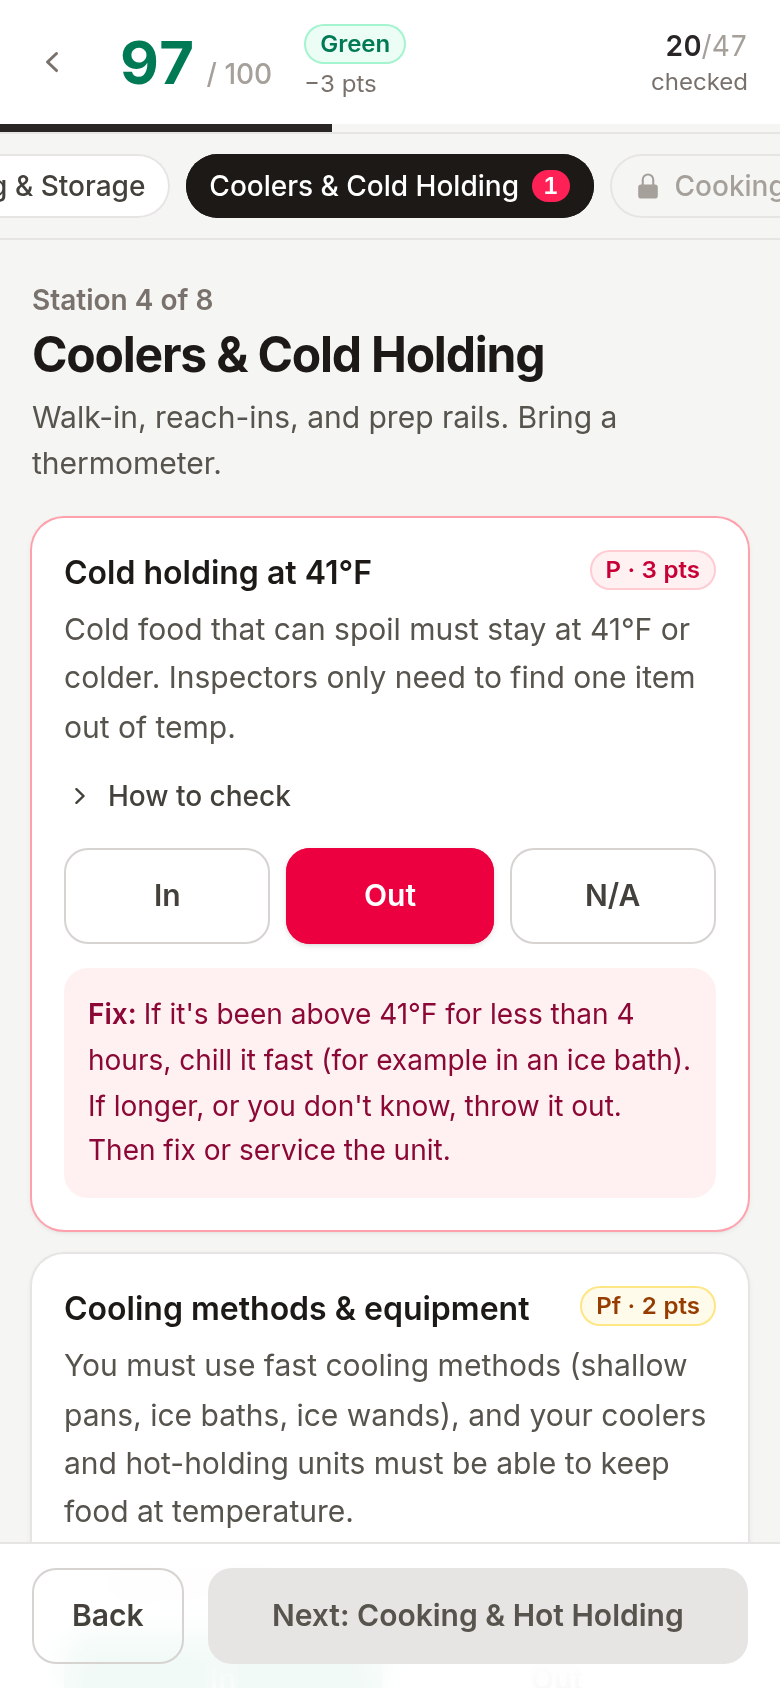
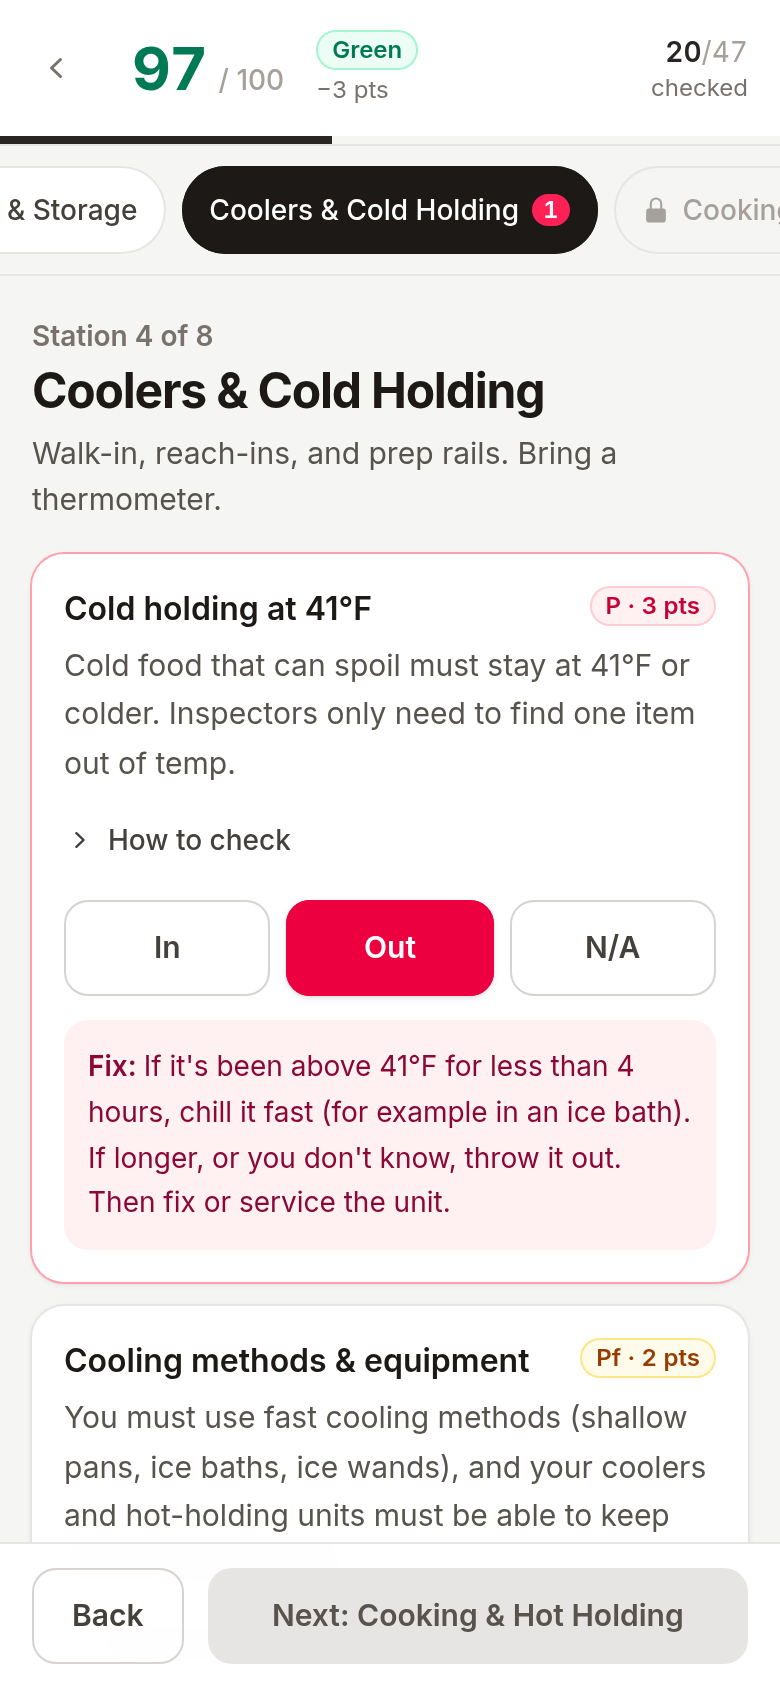
Fix audit findings and deploy to GitHub Pages
Rubric: correct food handler deadline (30 days), CFM presence, TCS date
marking, vacuum-pack/HACCP scope, utensil water temp, hand-sink signage,
glove changes, medicine storage; trim unsourced penalty claims from the
fail note.

App: validate saved state on load, clamp station navigation, only allow
results when all 47 are answered, clear the sample flag on edit, guard
localStorage writes, count tallies from rubric items, aria-disabled on the
gated Next button, 44px tap targets, clipboard favicon.

Deploy: relative Vite base and a GitHub Actions Pages workflow.

diff --git a/src/lib/store.ts b/src/lib/store.ts
@@ -1,5 +1,5 @@
 import { useEffect, useReducer } from 'react'
-import type { Answer, Answers } from './rubric'
+import { cleanAnswers, reachableArea, rubric, type Answer, type Answers } from './rubric'
 
 export type Screen = 'start' | 'inspect' | 'verdict'
 
@@ -7,7 +7,7 @@ export interface State {
   screen: Screen
   areaIndex: number
   answers: Answers
-  /** True while the answers came from the demo sample (cleared by reset). */
+  /** True while the answers are the untouched demo sample (cleared by reset or any edit). */
   sample: boolean
 }
 
@@ -15,7 +15,6 @@ export type Action =
   | { type: 'start' }
   | { type: 'reset' }
   | { type: 'answer'; id: number; answer: Answer }
-  | { type: 'answerMany'; ids: number[]; answer: Answer }
   | { type: 'goArea'; index: number }
   | { type: 'finish' }
   | { type: 'home' }
@@ -35,16 +34,17 @@ function reducer(state: State, action: Action): State {
       // Tapping the selected answer again clears it.
       if (answers[action.id] === action.answer) delete answers[action.id]
       else answers[action.id] = action.answer
-      return { ...state, answers }
-    }
-    case 'answerMany': {
-      const answers = { ...state.answers }
-      for (const id of action.ids) answers[id] = action.answer
-      return { ...state, answers }
+      // Once edited, the answers are the user's own, not the sample's.
+      return { ...state, answers, sample: false }
     }
     case 'goArea':
-      return { ...state, screen: 'inspect', areaIndex: action.index }
+      // Never past the first station with unanswered items.
+      return { ...state, screen: 'inspect', areaIndex: clampArea(action.index, state.answers) }
     case 'finish':
+      // Results only once every item is answered; otherwise send them to the first gap.
+      if (Object.keys(state.answers).length < rubric.items.length) {
+        return { ...state, screen: 'inspect', areaIndex: reachableArea(state.answers) }
+      }
       return { ...state, screen: 'verdict' }
     case 'home':
       return { ...state, screen: 'start' }
@@ -53,13 +53,21 @@ function reducer(state: State, action: Action): State {
   }
 }
 
+function clampArea(index: number, answers: Answers): number {
+  const i = Number.isInteger(index) ? index : 0
+  return Math.max(0, Math.min(i, reachableArea(answers)))
+}
+
 function load(): State {
   try {
     const raw = localStorage.getItem(STORAGE_KEY)
     if (!raw) return initial
-    const saved = JSON.parse(raw) as Partial<State>
+    // Saved data may be stale (older rubric) or edited by hand: keep only what's valid.
+    const saved = JSON.parse(raw) as Record<string, unknown> | null
+    const answers = cleanAnswers(saved?.answers)
+    const areaIndex = clampArea(typeof saved?.areaIndex === 'number' ? saved.areaIndex : 0, answers)
     // Always land on the start screen; it offers "Resume" when there's saved progress.
-    return { ...initial, areaIndex: saved.areaIndex ?? 0, answers: saved.answers ?? {}, sample: saved.sample ?? false }
+    return { ...initial, areaIndex, answers, sample: saved?.sample === true }
   } catch {
     return initial
   }
@@ -68,10 +76,14 @@ function load(): State {
 export function useInspection() {
   const [state, dispatch] = useReducer(reducer, undefined, load)
   useEffect(() => {
-    localStorage.setItem(
-      STORAGE_KEY,
-      JSON.stringify({ areaIndex: state.areaIndex, answers: state.answers, sample: state.sample }),
-    )
+    try {
+      localStorage.setItem(
+        STORAGE_KEY,
+        JSON.stringify({ areaIndex: state.areaIndex, answers: state.answers, sample: state.sample }),
+      )
+    } catch {
+      // Storage full or blocked (e.g. private browsing): the app still works, it just won't remember.
+    }
   }, [state.areaIndex, state.answers, state.sample])
   return [state, dispatch] as const
 }

diff --git a/src/screens/InspectScreen.tsx b/src/screens/InspectScreen.tsx
@@ -1,7 +1,7 @@
 import { useEffect, useRef } from 'react'
 import { ItemCard } from '../components/ItemCard'
 import { ScoreBar } from '../components/ScoreBar'
-import { itemsByArea, type Answer, type Answers } from '../lib/rubric'
+import { itemsByArea, reachableArea, type Answer, type Answers } from '../lib/rubric'
 import type { ScoreSummary } from '../lib/scoring'
 import type { Action } from '../lib/store'
 
@@ -17,9 +17,7 @@ export function InspectScreen({ areaIndex, answers, summary, dispatch }: Props) 
   const isLast = areaIndex === itemsByArea.length - 1
   const unanswered = items.filter((i) => answers[i.id] === undefined)
   const blocked = unanswered.length > 0
-  // Furthest station you may open: every station before it must be fully answered.
-  const firstIncomplete = itemsByArea.findIndex(({ items }) => items.some((i) => answers[i.id] === undefined))
-  const reachable = firstIncomplete === -1 ? itemsByArea.length - 1 : firstIncomplete
+  const reachable = reachableArea(answers)
 
   // Start each station at the top.
   useEffect(() => {
@@ -52,7 +50,7 @@ export function InspectScreen({ areaIndex, answers, summary, dispatch }: Props) 
         </div>
 
         {unanswered.length > 0 ? (
-          <div className="mt-4 flex items-center justify-between gap-3 rounded-xl bg-white px-4 py-3 ring-1 ring-stone-200">
+          <div id="unanswered-note" className="mt-4 flex items-center justify-between gap-3 rounded-xl bg-white px-4 py-3 ring-1 ring-stone-200">
             <p className="text-sm text-stone-600">
               <span className="tabular font-semibold text-stone-900">{unanswered.length}</span>{' '}
               {unanswered.length === 1 ? 'item' : 'items'} at this station {unanswered.length === 1 ? 'is' : 'are'} still
@@ -60,7 +58,7 @@ export function InspectScreen({ areaIndex, answers, summary, dispatch }: Props) 
             </p>
             <button
               onClick={() => showItem(unanswered[0].id)}
-              className="shrink-0 rounded-lg px-3 py-2 text-sm font-semibold text-stone-800 ring-1 ring-inset ring-stone-300 transition hover:bg-stone-50"
+              className="min-h-11 shrink-0 rounded-lg px-3 py-2 text-sm font-semibold text-stone-800 ring-1 ring-inset ring-stone-300 transition hover:bg-stone-50"
             >
               Show me
             </button>
@@ -94,6 +92,8 @@ export function InspectScreen({ areaIndex, answers, summary, dispatch }: Props) 
               else if (isLast) dispatch({ type: 'finish' })
               else dispatch({ type: 'goArea', index: areaIndex + 1 })
             }}
+            aria-disabled={blocked}
+            aria-describedby={blocked ? 'unanswered-note' : undefined}
             className={`h-12 flex-1 rounded-xl text-[15px] font-semibold transition active:scale-[0.99] ${
               blocked ? 'bg-stone-200 text-stone-600' : 'bg-stone-900 text-white shadow-sm hover:bg-stone-800'
             }`}
@@ -149,8 +149,9 @@ function AreaStepper({
               onClick={() => onPick(i)}
               disabled={locked}
               title={locked ? 'Answer every item in the earlier stations first' : undefined}
+              aria-label={locked ? `${area.name} (locked until earlier stations are answered)` : undefined}
               aria-current={active ? 'step' : undefined}
-              className={`flex shrink-0 items-center gap-1.5 rounded-full px-3 py-1.5 text-sm font-medium whitespace-nowrap ring-1 ring-inset transition ${
+              className={`flex min-h-11 shrink-0 items-center gap-1.5 rounded-full px-3.5 py-2 text-sm font-medium whitespace-nowrap ring-1 ring-inset transition ${
                 active
                   ? 'bg-stone-900 text-white ring-stone-900'
                   : locked

diff --git a/src/lib/rubric.test.ts b/src/lib/rubric.test.ts
@@ -1,0 +1,30 @@
+import { describe, expect, it } from 'vitest'
+import { SAMPLE_ANSWERS } from '../data/sample'
+import { cleanAnswers, itemsByArea, reachableArea } from './rubric'
+
+describe('cleanAnswers', () => {
+  it('drops unknown ids, invalid values, and N/A where it is not allowed', () => {
+    // Item 7 doesn't allow N/A; item 1 does.
+    expect(cleanAnswers({ 1: 'na', 2: 'out', 7: 'na', 99: 'in', 3: 'maybe' })).toEqual({ 1: 'na', 2: 'out' })
+  })
+
+  it('returns nothing for junk', () => {
+    for (const junk of [null, undefined, 'x', 5, ['in']]) expect(cleanAnswers(junk)).toEqual({})
+  })
+
+  it('keeps a full valid set intact', () => {
+    expect(cleanAnswers(SAMPLE_ANSWERS)).toEqual(SAMPLE_ANSWERS)
+  })
+})
+
+describe('reachableArea', () => {
+  it('is the first station with an unanswered item', () => {
+    expect(reachableArea({})).toBe(0)
+    const firstStation = Object.fromEntries(itemsByArea[0].items.map((i) => [i.id, 'in' as const]))
+    expect(reachableArea(firstStation)).toBe(1)
+  })
+
+  it('is the last station once everything is answered', () => {
+    expect(reachableArea(SAMPLE_ANSWERS)).toBe(itemsByArea.length - 1)
+  })
+})

diff --git a/src/lib/rubric.ts b/src/lib/rubric.ts
@@ -56,3 +56,21 @@ export const itemsByArea: { area: Area; items: Item[] }[] = rubric.areas.map((ar
   area,
   items: rubric.items.filter((i) => i.area === area.id).sort((a, b) => a.id - b.id),
 }))
+
+/** Furthest station the user may open: every station before it must be fully answered. */
+export function reachableArea(answers: Answers): number {
+  const first = itemsByArea.findIndex(({ items }) => items.some((i) => answers[i.id] === undefined))
+  return first === -1 ? itemsByArea.length - 1 : first
+}
+
+/** Keep only answers for real items with a valid value (N/A only where the item allows it). */
+export function cleanAnswers(raw: unknown): Answers {
+  const out: Answers = {}
+  if (!raw || typeof raw !== 'object' || Array.isArray(raw)) return out
+  const src = raw as Record<string, unknown>
+  for (const item of rubric.items) {
+    const a = src[item.id]
+    if (a === 'in' || a === 'out' || (a === 'na' && item.allows_na)) out[item.id] = a
+  }
+  return out
+}

diff --git a/src/components/ItemCard.tsx b/src/components/ItemCard.tsx
@@ -42,7 +42,7 @@ export function ItemCard({ item, answer, onAnswer }: Props) {
 
       <button
         onClick={() => setOpen((o) => !o)}
-        className="mt-3 flex items-center gap-1.5 text-sm font-medium text-stone-700 hover:text-stone-900"
+        className="-mx-2 mt-1 flex min-h-11 items-center gap-1.5 rounded-lg px-2 text-sm font-medium text-stone-700 hover:text-stone-900"
         aria-expanded={open}
       >
         <svg
@@ -75,7 +75,7 @@ export function ItemCard({ item, answer, onAnswer }: Props) {
         </div>
       )}
 
-      <div className={`mt-4 grid gap-2 ${options.length === 3 ? 'grid-cols-3' : 'grid-cols-2'}`} role="radiogroup" aria-label={item.title}>
+      <div className={`mt-2 grid gap-2 ${options.length === 3 ? 'grid-cols-3' : 'grid-cols-2'}`} role="radiogroup" aria-label={item.title}>
         {options.map((o) => {
           const selected = answer === o.value
           return (

diff --git a/src/components/ScoreBar.tsx b/src/components/ScoreBar.tsx
@@ -18,7 +18,7 @@ export function ScoreBar({ summary, onHome }: Props) {
       <div className="mx-auto flex max-w-2xl items-center gap-4 px-4 py-3">
         <button
           onClick={onHome}
-          className="-ml-2 rounded-lg p-2 text-stone-500 hover:bg-stone-100 hover:text-stone-800"
+          className="-ml-2.5 grid size-11 place-items-center rounded-lg text-stone-500 hover:bg-stone-100 hover:text-stone-800"
           aria-label="Back to start"
         >
           <svg viewBox="0 0 20 20" fill="currentColor" className="size-5" aria-hidden>

diff --git a/src/screens/VerdictScreen.tsx b/src/screens/VerdictScreen.tsx
@@ -21,7 +21,10 @@ export function VerdictScreen({ summary, answers, sample, onBack, onRestart }: P
   const shown = useCountDown(score)
 
   const counts = { in: 0, out: 0, na: 0 }
-  for (const a of Object.values(answers)) counts[a]++
+  for (const item of rubric.items) {
+    const a = answers[item.id]
+    if (a) counts[a]++
+  }
 
   const groups = SEVERITIES.map((sev) => {
     const items = failed.filter((i) => i.severity === sev)

diff --git a/vite.config.ts b/vite.config.ts
@@ -4,5 +4,7 @@ import { defineConfig } from 'vite'
 
 // https://vite.dev/config/
 export default defineConfig({
+  // Relative asset paths, so the build works at any URL (e.g. GitHub Pages' /austin-inspection-practice-test/).
+  base: './',
   plugins: [react(), tailwindcss()],
 })

diff --git a/PROGRESS.md b/PROGRESS.md
@@ -3,7 +3,7 @@
 _Last updated: 2026-11-26_
 
 ## Status
-Phases 0–3 done: rubric, start screen, gated station-by-station inspection, and the verdict screen with a ranked fix list and print/PDF. Sample-result button and README done. Next: deploy (waiting on the user to talk it through).
+Phases 0–3 done, audited, and deployed to GitHub Pages: https://mwanin.github.io/austin-inspection-practice-test/. Only optional work remains (Phase 4 AI layer, confirming the form edition).
 
 ## Checklist
 - [x] Read the build plan
@@ -18,7 +18,8 @@ Phases 0–3 done: rubric, start screen, gated station-by-station inspection, an
 - [x] Demo touch: "Just looking? See a sample result" button (85, Yellow, 2 Priority items Out). Tested in `src/data/sample.test.ts`
 - [x] README with screenshots (`docs/*.png`)
 - [x] GitHub repo (public): https://github.com/MwaniN/austin-inspection-practice-test
-- [ ] Deploy (Vercel or GitHub Pages) and add the link here
+- [x] Audit (3 Sonnet agents: rubric vs. sources, code, live UI + docs) and fixes applied, see Decisions log
+- [x] Deploy to GitHub Pages: https://mwanin.github.io/austin-inspection-practice-test/ (auto-deploys on push to `main` via `.github/workflows/deploy.yml`)
 - [ ] *(Optional)* Phase 4: AI layer
 
 ## Decisions log
@@ -33,6 +34,7 @@ Phases 0–3 done: rubric, start screen, gated station-by-station inspection, an
 - **Fail line: 70 passes, 69 or below fails and triggers a re-inspection.** Confirmed by local news coverage
   (Daily Texan: "70 or above considered a passing score"; WhatNow: "reinspection required due to the health score being below 70").
   Supporting context: repeat failures within 3 years lead to a criminal complaint, and a third failure means closure (KUT, Aug 2026, citing APH).
+  The app's `fail_note` deliberately leaves the penalty claims out (news-sourced, not in the official documents); it only says 69 or below fails and gets a re-inspection.
 - **Stack: Vite + React + Tailwind on Node 22,** static, no backend. The rubric validator is written in Node too, so there is a single toolchain.
 - **Rubric gets a `check` field** (how to self-check this item right now), on top of the plan's schema. Approved by the user.
 
@@ -46,17 +48,17 @@ Phases 0–3 done: rubric, start screen, gated station-by-station inspection, an
   so the higher-point items come first.
 - **App structure (Phase 2):** `src/lib/scoring.ts` (pure `summarize()`, unit-tested in `scoring.test.ts`), `src/lib/store.ts`
   (`useReducer` + localStorage key `aipt:v1`; screens `start | inspect | verdict`; tapping the selected answer again clears it),
-  `src/lib/ui.ts` (band/severity colors), `components/` (ScoreBar, ItemCard, Disclaimer), `screens/` (StartScreen, InspectScreen).
+  `src/lib/ui.ts` (band/severity colors), `components/` (ScoreBar, ItemCard, Disclaimer), `screens/` (StartScreen, InspectScreen, VerdictScreen).
   The app always opens on the start screen; it shows "Resume" when there's saved progress.
 - **UI choices:** one station per screen with a scrollable chip stepper (✓ when complete, red count of items needing a fix); a Fix
-  box appears as soon as an item is marked "Needs fix"; the form item # and code ref sit inside "How to check" so the main card
+  box appears as soon as an item is marked Out; the form item # and code ref sit inside "How to check" so the main card
   stays plain-language.
 - **Answer labels stay "In / Out / N/A"** (the official inspector marks). The start screen has a short "What In, Out and N/A
   mean" box explaining them. User's call, after briefly trying "Looks good / Needs fix".
 - **Unanswered prompt, never a suggested answer:** each station ends with "N items at this station are still unanswered" plus a
   "Show me" button that scrolls to the first unanswered card and briefly outlines it (or "All N items answered" when done).
-  The old "Mark the remaining N as In" button was removed because it told people *what* to answer. Fast demos will use the
-  "fill sample data" button instead.
+  The old "Mark the remaining N as In" button was removed because it told people *what* to answer. Fast demos use the
+  "Just looking? See a sample result" link instead.
 - **Stations are gated:** you can't move forward until every item at the current station is answered. The Next / "See my
   results" button keeps its label but turns grey; tapping it jumps to the first unanswered card. Station
   chips past the first incomplete station are disabled with a lock icon. Going back is always allowed. User's call.
@@ -70,11 +72,25 @@ Phases 0–3 done: rubric, start screen, gated station-by-station inspection, an
 - **Sample result:** `src/data/sample.ts` (8 Out: items 2, 14, 28, 29, 31, 36, 39, 45; N/A: 6, 16, 25 → 85, Yellow, passes).
   The `loadSample` action fills all 47 answers and goes straight to the verdict, with `sample: true` saved alongside the answers.
   While it's set, the verdict shows a blue "Sample results for a made-up kitchen" banner with "Start my own", the score label
-  reads "Sample score", and the printed header says "Sample report". Reset clears it.
+  reads "Sample score", and the printed header says "Sample report". Reset clears it, and so does editing any answer
+  (the answers are then the user's own).
 - **README** is written for someone opening the repo from the job application. It only states what's sourced: it leaves out
   the plan's unverified "Green/Yellow/Red twice a year" claim. Screenshots in `docs/` were taken with reduced motion,
   at 390×844 @2x.
 - **Logo is a clipboard, not a checkmark:** a check in a square read as a clickable checkbox.
+- **Audit fixes (2026-11-26):**
+  - Rubric text corrected against the sources: food handler card within 30 days (not 60); CFM on site whenever open;
+    date marking applies to ready-to-eat *TCS* food; vacuum packing only needs a plan past the 48-hour rule; in-use utensils
+    may sit in water ≥135°F; hand sinks need a sign; gloves/handwash on task change; medicines stored away from food;
+    item 23 code_ref gains 5-202.12 (the 100°F hand-sink rule).
+  - Saved state is validated on load (`cleanAnswers` and `reachableArea` in `src/lib/rubric.ts`, tested in `rubric.test.ts`):
+    unknown ids, bad values and disallowed N/A are dropped; `areaIndex` is clamped to the first incomplete station.
+    The reducer also clamps `goArea` and only allows `finish` when all 47 are answered. Saving is wrapped in try/catch.
+  - Verdict tallies count rubric items only. The gated Next button has `aria-disabled`. Primary tap targets are now 44px or more
+    (chips, back arrow, "How to check", "Show me"). The favicon is the clipboard logo. The unused `answerMany` action was removed.
+  - Left as is (judged fine): the item 1 cooling fix wording, the item 8 receiving temps simplification, and the item 30 permit text.
+- **Deploy: GitHub Pages** via Actions (tests + rubric check + build, then deploy). `vite.config.ts` uses `base: './'`
+  (relative asset paths), so the same build works at the Pages sub-path, at a root domain, or on Vercel. There's no router, so no SPA fallback is needed.
 - **Screenshots/visual checks:** the Playwright MCP needs an X server and fails in WSL. Instead use `playwright-core` driving
   headless system Chrome (`/opt/google/chrome/chrome`) from a scratch script at a 390×844 mobile viewport.
 
@@ -91,7 +107,7 @@ Phases 0–3 done: rubric, start screen, gated station-by-station inspection, an
   Failing that, email ehsd.service@austintexas.gov. Until then the 47-item form is a safe basis.
 
 ## Next up
-1. **Deploy: talk it through with the user first** (they asked to discuss before deploying). Options: Vercel (zero config)
-   or GitHub Pages (needs `base: '/austin-inspection-practice-test/'` in `vite.config.ts` plus a Pages workflow). Then add
-   the live link to the README (top, under the title) and to the checklist here.
-2. Optional: Phase 4 AI layer; confirm Austin's current form edition (Open question A).
+1. Optional: Phase 4 AI layer (see the plan in `resources/`).
+2. Confirm Austin's current form edition (Open question A). If it's the 56-item form, scoring needs a rethink.
+3. Optional polish from the audit, not yet done: a tick mark at 70 on the verdict gauge; unify the two "Start over" confirm
+   messages; real radio keyboard handling (or `aria-pressed` toggles) for the In/Out/N/A buttons.

diff --git a/README.md b/README.md
@@ -1,5 +1,7 @@
 # Austin Inspection Practice Test
 
+**Live demo:** https://mwanin.github.io/austin-inspection-practice-test/ (best on a phone)
+
 **Would you pass your health inspection today?** A mobile-first self-inspection tool for Austin restaurants.
 Walk the kitchen with the same 47-item, 100-point form inspectors use, watch the score update as you go, and get a
 fix list ranked by what costs you the most points, all before the real inspector arrives.
@@ -25,7 +27,7 @@ hundreds of pages that nobody on the line has read. This turns it into a 15-minu
   Priority Foundation 2, Core 1.
 - **Fix as you go.** Marking an item Out immediately shows what to do about it.
 - **Verdict and fix list.** Pass or fail against Austin's 70-point line, plus every problem ranked by points and grouped
-  by the official correction deadline (3 days / 10 days / 90 days). Each item cites its form number and Food Code section.
+  by the official correction deadline (3 days / 10 days / 90 days or the next inspection). Each item cites its form number and Food Code section.
 - **Print or save as PDF** for the kitchen wall or the next staff meeting.
 - **One-tap sample result** ("Just looking?") so anyone can see the full output in seconds.
 - Works one-handed on a phone. Progress is saved in the browser. No account, no backend, no data leaves the device.
@@ -56,6 +58,7 @@ saved to `localStorage`.
 src/
   data/rubric.json        47 items: official text, points, code ref, plain language, how to check, fix
   data/sample.ts          the demo kitchen behind "See a sample result"
+  lib/rubric.ts           typed rubric, stations, saved-answer validation
   lib/scoring.ts          pure scoring: score, pass/fail, band, ranked fix list
   lib/store.ts            app state and persistence
   screens/                Start, Inspect, Verdict
@@ -70,7 +73,7 @@ Requires Node 22+.
 ```bash
 npm install
 npm run dev               # http://localhost:5173
-npm test                  # scoring and sample-data tests
+npm test                  # scoring, rubric-helper and sample-data tests
 npm run validate:rubric   # rubric integrity + code refs vs. the DSHS guide
 npm run build             # type-check and production build to dist/
 ```
